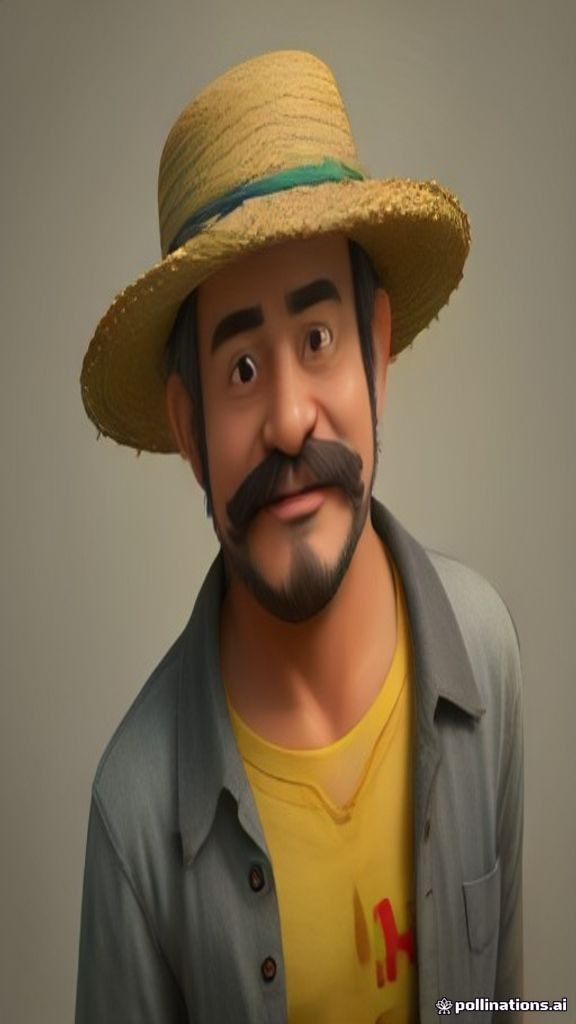
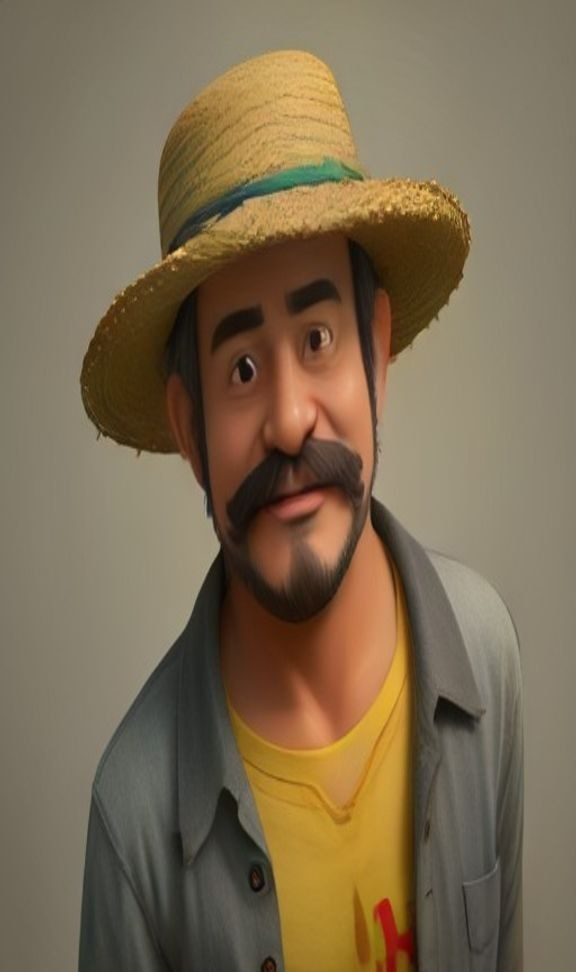
Remove marca d'agua da Pollinations e reformula o README com visuais
A imagem do personagem vinha com a marca "pollinations.ai" gravada no
rodape, e portanto aparecia em todo video publicado. O parametro
nologo=true da API so vale para contas pagas, entao a faixa passa a
ser cortada apos o download. Isso importa porque o TikTok desqualifica
da monetizacao conteudo com marca d'agua de outro app, que e
justamente o objetivo do projeto.

O corte preserva o formato original do arquivo: a Pollinations responde
JPEG (apesar da extensao .png), e re-salvar como PNG multiplicava por
sete o tamanho de um arquivo que fica commitado no repo.

README: adiciona frame real de um video gerado, diagrama do pipeline em
SVG legivel nos temas claro e escuro do GitHub, mini logos nas tabelas e
requisitos de monetizacao em formato de checklist.

diff --git a/src/images.py b/src/images.py
@@ -5,9 +5,14 @@ import time
 import urllib.parse
 
 import requests
-from PIL import ImageFont
+from PIL import Image, ImageFont
 
 POLLINATIONS_URL = "https://image.pollinations.ai/prompt/{prompt}"
+
+# A Pollinations grava a marca dela no rodape das imagens: o parametro
+# nologo=true so vale para contas pagas. Cortamos a faixa porque o TikTok
+# desqualifica da monetizacao conteudo com marca d'agua de outro app.
+WATERMARK_STRIP_RATIO = 0.05
 
 
 def generate_scene_image(prompt: str, width: int, height: int, out_path: str,
@@ -34,6 +39,7 @@ def generate_scene_image(prompt: str, width: int, height: int, out_path: str,
             resp.raise_for_status()
             with open(out_path, "wb") as f:
                 f.write(resp.content)
+            strip_watermark(out_path)
             return out_path
         except requests.RequestException as exc:
             last_exc = exc
@@ -43,6 +49,20 @@ def generate_scene_image(prompt: str, width: int, height: int, out_path: str,
             time.sleep(wait)
 
     raise RuntimeError(f"Nao foi possivel gerar a imagem apos {retries} tentativas: {last_exc}")
+
+
+def strip_watermark(path: str, ratio: float = WATERMARK_STRIP_RATIO) -> str:
+    """Corta a faixa inferior da imagem, onde fica a marca d'agua da Pollinations."""
+    with Image.open(path) as img:
+        # a Pollinations responde JPEG: re-salvar como PNG multiplicaria o
+        # tamanho de um arquivo que fica commitado no repo
+        image_format = img.format
+        width, height = img.size
+        cropped = img.crop((0, 0, width, int(height * (1 - ratio))))
+
+    options = {"quality": 95} if image_format == "JPEG" else {}
+    cropped.save(path, format=image_format, **options)
+    return path
 
 
 def load_font(size: int) -> ImageFont.FreeTypeFont:

diff --git a/README.md b/README.md
@@ -1,70 +1,108 @@
 <div align="center">
 
-<img src="assets/character.png" alt="Seu Waldemar, personagem fixo do canal" width="180">
-
 # tiktok-ai-bot
 
-Geracao e publicacao diaria de esquetes de humor com IA, estreladas por um personagem 3D fixo e original, para TikTok e YouTube Shorts.
+**Uma esquete de humor por dia, gerada por IA e publicada sozinha no TikTok e no YouTube Shorts.**
 
-[![Python](https://img.shields.io/badge/Python-3.11%2B-3776AB?logo=python&logoColor=white)](https://www.python.org/)
-[![TikTok Content Posting API](https://img.shields.io/badge/TikTok-Content%20Posting%20API-000000?logo=tiktok&logoColor=white)](https://developers.tiktok.com/)
-[![YouTube Data API v3](https://img.shields.io/badge/YouTube-Data%20API%20v3-FF0000?logo=youtube&logoColor=white)](https://developers.google.com/youtube/v3)
-[![Groq](https://img.shields.io/badge/LLM-Groq-F55036?logo=groq&logoColor=white)](https://groq.com/)
-[![GitHub Actions](https://img.shields.io/badge/Automacao-GitHub%20Actions-2088FF?logo=githubactions&logoColor=white)](https://github.com/features/actions)
+Personagem 3D fixo e original, roteiro novo a cada dia, narracao com legendas animadas
+e publicacao pelas APIs oficiais das duas plataformas, rodando de graca no GitHub Actions.
+
+[![Python](https://img.shields.io/badge/Python-3.11+-3776AB?style=for-the-badge&logo=python&logoColor=white)](https://www.python.org/)
+[![TikTok](https://img.shields.io/badge/TikTok-Content_Posting_API-000000?style=for-the-badge&logo=tiktok&logoColor=white)](https://developers.tiktok.com/)
+[![YouTube](https://img.shields.io/badge/YouTube-Data_API_v3-FF0000?style=for-the-badge&logo=youtube&logoColor=white)](https://developers.google.com/youtube/v3)
+[![GitHub Actions](https://img.shields.io/badge/GitHub_Actions-cron_diario-2088FF?style=for-the-badge&logo=githubactions&logoColor=white)](https://github.com/features/actions)
+[![FFmpeg](https://img.shields.io/badge/FFmpeg-MoviePy-007808?style=for-the-badge&logo=ffmpeg&logoColor=white)](https://ffmpeg.org/)
 
 </div>
 
 ---
 
-## Indice
+## Resultado
 
-- [Visao geral](#visao-geral)
-- [Como funciona](#como-funciona)
-- [Sobre monetizacao](#sobre-monetizacao-tiktok-creator-rewards-program)
-- [Limitacao importante do TikTok](#limitacao-importante-do-tiktok)
-- [Setup passo a passo](#setup-passo-a-passo)
-- [Customizacao](#customizacao)
-- [Rodando localmente](#rodando-localmente)
+<table>
+<tr>
+<td width="46%" align="center">
 
-## Visao geral
+<img src="docs/img/preview.jpg" alt="Frame de um video gerado pelo bot: o personagem Seu Waldemar com legenda animada" width="260">
 
-Este bot gera uma esquete de humor por dia e publica automaticamente no **TikTok** e no **YouTube Shorts**, usando as **APIs oficiais** de cada plataforma via GitHub Actions (cron diario).
+</td>
+<td width="54%">
 
-Ele nao usa scraping nem automacao de navegador: esse tipo de tecnica viola os Termos de Servico das plataformas e coloca a conta em risco de banimento.
+**O que sai no final:**
+
++ Video vertical 1080x1920, pronto para Shorts e TikTok
++ Mesmo personagem em todos os videos, para o canal ter identidade
++ Legendas animadas palavra a palavra, no estilo CapCut
++ Risada de grupo fechando a piada
++ Narracao de 170 a 220 palavras, para passar de 1 minuto
++ Publicacao automatica nas duas plataformas
+
+</td>
+</tr>
+</table>
 
 ## Como funciona
 
-| Etapa | Ferramenta | Funcao |
-|---|---|---|
-| 1 | [Pollinations.ai](https://pollinations.ai/) (gratuito, uma unica vez) | Gera e cacheia a imagem do personagem fixo |
-| 2 | [Groq](https://groq.com/) (`openai/gpt-oss-120b`) | Escreve o roteiro: monologo do personagem, legenda e hashtags |
-| 3 | [edge-tts](https://github.com/rany2/edge-tts) (gratuito) | Narra o roteiro e retorna o timing de cada palavra |
-| 4 | MoviePy / ffmpeg | Monta o video: personagem com zoom leve, legendas animadas palavra a palavra e risada final |
-| 5 | TikTok Content Posting API | Publica no TikTok |
-| 6 | YouTube Data API v3 | Publica no YouTube Shorts |
+<div align="center">
+  <img src="docs/img/pipeline.svg" alt="Fluxo do pipeline: Pollinations gera o personagem, Groq escreve o roteiro, edge-tts narra, MoviePy monta o video e a publicacao vai para TikTok e YouTube Shorts" width="100%">
+</div>
 
-A mesma imagem do personagem (gerada uma unica vez e commitada em `assets/character.png`) e reaproveitada em todo video, para manter sempre a mesma aparencia. O video final e enviado para as duas plataformas de forma independente: os liga/desliga sao `tiktok.enabled` e `youtube.enabled` em `config.yaml`. Se uma plataforma falhar ou nao estiver configurada, a outra continua normalmente.
+| # | Ferramenta | O que faz |
+|:--:|---|---|
+| 1 | ![Pollinations](https://img.shields.io/badge/Pollinations.ai-7c5cff?style=flat-square) | Gera a imagem do personagem. Roda uma unica vez e o arquivo fica commitado |
+| 2 | ![Groq](https://img.shields.io/badge/Groq-F55036?style=flat-square) | Escreve o roteiro do dia: monologo, legenda e hashtags |
+| 3 | ![edge-tts](https://img.shields.io/badge/edge--tts-0F9D58?style=flat-square) | Narra o texto e devolve o timing de cada palavra |
+| 4 | ![MoviePy](https://img.shields.io/badge/MoviePy-2B7FFF?style=flat-square&logo=ffmpeg&logoColor=white) | Monta o video: zoom no personagem, legendas sincronizadas e risada final |
+| 5 | ![TikTok](https://img.shields.io/badge/TikTok-000000?style=flat-square&logo=tiktok&logoColor=white) | Publica no TikTok |
+| 6 | ![YouTube](https://img.shields.io/badge/YouTube-FF0000?style=flat-square&logo=youtube&logoColor=white) | Publica no YouTube Shorts |
+
+A mesma imagem do personagem (gerada uma unica vez e commitada em `assets/character.png`)
+e reaproveitada em todo video, para manter sempre a mesma aparencia. As duas plataformas
+sao independentes: os liga/desliga sao `tiktok.enabled` e `youtube.enabled` em
+`config.yaml`, e se uma falhar ou nao estiver configurada, a outra continua normalmente.
+
+Nada de scraping ou automacao de navegador: esse tipo de tecnica viola os Termos de
+Servico das plataformas e coloca a conta em risco de banimento.
 
 ### Por que sem lip-sync (boca sincronizada)?
 
-Assim o projeto se mantem 100% gratuito. Um avatar com a boca sincronizada com a voz exige servicos pagos (HeyGen, D-ID, Synthesia). Ha tambem um motivo de regras: a politica do **TikTok Creator Rewards Program** exclui explicitamente "conteudo com sincronizacao labial" da definicao de conteudo original elegivel para monetizacao. O formato atual (narracao mais legenda, sem lip-sync) e o que melhor se encaixa nas regras vigentes.
+Assim o projeto se mantem gratuito. Um avatar com a boca sincronizada com a voz exige
+servicos pagos (HeyGen, D-ID, Synthesia). Ha tambem um motivo de regras: a politica do
+**TikTok Creator Rewards Program** exclui explicitamente "conteudo com sincronizacao
+labial" da definicao de conteudo original elegivel para monetizacao. O formato atual
+(narracao mais legenda, sem lip-sync) e o que melhor se encaixa nas regras vigentes.
 
-## Sobre monetizacao (TikTok Creator Rewards Program)
+## Sobre monetizacao
 
 Vale saber antes de esperar renda do bot:
 
-- E preciso ter conta pessoal, 18 anos ou mais, **10.000 seguidores** e **100.000 visualizacoes nos ultimos 30 dias** apenas para se inscrever no programa.
-- O video precisa ter **pelo menos 1 minuto**: por isso o roteiro foi ajustado para narracoes de 170 a 220 palavras.
-- Conteudo de IA nao e proibido, mas precisa contar como "original": nada de copiar conteudo de terceiros, usar watermark de outro app ou apenas sobrepor texto em foto/video alheio. O TikTok tambem pede para rotular conteudo gerado por IA (em Configuracoes do video, opcao "Rotular como IA" no app; a Content Posting API ainda nao expoe esse campo).
-- O YouTube tem um programa equivalente (YouTube Partner Program), com seus proprios requisitos de inscritos e horas assistidas, nao detalhados aqui.
+| Requisito do TikTok Creator Rewards | Situacao |
+|---|---|
+| Conta pessoal, 18 anos ou mais | Depende de voce |
+| 10.000 seguidores | Depende de voce |
+| 100.000 visualizacoes em 30 dias | Depende de voce |
+| Video com pelo menos 1 minuto | Coberto: o roteiro pede 170 a 220 palavras e o bot regenera se vier curto |
+| Conteudo original, sem lip-sync e sem marca d'agua de terceiros | Coberto: personagem proprio, sem lip-sync e a marca da Pollinations e removida |
+| Rotular conteudo gerado por IA | Manual por enquanto: a Content Posting API ainda nao expoe esse campo |
+
+O YouTube tem um programa equivalente (YouTube Partner Program), com seus proprios
+requisitos de inscritos e horas assistidas, nao detalhados aqui.
 
 ## Limitacao importante do TikTok
 
-Apps **nao auditados** pela TikTok so podem publicar com `privacy_level = SELF_ONLY`: o video fica visivel apenas para a propria conta, como um rascunho, e nao aparece publicamente no feed. Para publicar direto ao publico (`PUBLIC_TO_EVERYONE`), e necessario solicitar auditoria do app no TikTok for Developers depois que ele estiver funcionando (Manage Apps > seu app > Submit for Review). Essa e uma exigencia da TikTok, nao uma limitacao deste bot.
+Apps **nao auditados** pela TikTok so podem publicar com `privacy_level = SELF_ONLY`:
+o video fica visivel apenas para a propria conta, como um rascunho, e nao aparece
+publicamente no feed. Para publicar direto ao publico (`PUBLIC_TO_EVERYONE`), e
+necessario solicitar auditoria do app no TikTok for Developers depois que ele estiver
+funcionando (Manage Apps > seu app > Submit for Review). Essa e uma exigencia da
+TikTok, nao uma limitacao deste bot.
 
-O YouTube Shorts nao tem essa restricao: com o app OAuth do Google em publishing status **"In production"**, os videos ja saem publicos direto (configuravel em `youtube.privacy_status`).
+O YouTube Shorts nao tem essa restricao: com o app OAuth do Google em publishing status
+**"In production"**, os videos ja saem publicos direto (configuravel em
+`youtube.privacy_status`).
 
-O Kwai nao foi incluido porque a Kuaishou/Kwai nao oferece API publica de postagem para desenvolvedores individuais fora de parcerias comerciais/MCN.
+O Kwai nao foi incluido porque a Kuaishou/Kwai nao oferece API publica de postagem para
+desenvolvedores individuais fora de parcerias comerciais/MCN.
 
 ## Setup passo a passo
 
@@ -74,7 +112,8 @@ Suba esta pasta para um repositorio novo (pode ser privado).
 
 ### 2. Ative o GitHub Pages (necessario para o OAuth do TikTok)
 
-O TikTok exige `redirect_uri` em HTTPS (nao aceita `localhost`). Este repo ja inclui `docs/oauth-callback.html` pronto para isso.
+O TikTok exige `redirect_uri` em HTTPS (nao aceita `localhost`). Este repo ja inclui
+`docs/oauth-callback.html` pronto para isso.
 
 - Settings > Pages > Source: `Deploy from a branch` > Branch: `main` / `docs`
 - Sua URL de callback sera algo como: `https://SEU-USUARIO.github.io/SEU-REPO/oauth-callback.html`
@@ -94,7 +133,9 @@ git commit -m "Gera personagem do canal"
 git push
 ```
 
-Isso fixa a aparencia do personagem definitivamente (o gerador de imagens gratuito nao repete o mesmo rosto sozinho a cada chamada). Para trocar o visual, edite `character.description` em `config.yaml` e rode novamente com `--force`.
+Isso fixa a aparencia do personagem definitivamente, porque o gerador de imagens
+gratuito nao repete o mesmo rosto sozinho a cada chamada. Para trocar o visual, edite
+`character.description` em `config.yaml` e rode novamente com `--force`.
 
 ### 5. Crie o app no TikTok for Developers
 
@@ -109,11 +150,17 @@ Isso fixa a aparencia do personagem definitivamente (o gerador de imagens gratui
 python -m src.oauth_setup
 ```
 
-O script pede `TIKTOK_CLIENT_KEY`, `TIKTOK_CLIENT_SECRET` e o `redirect_uri` do passo 2, abre a URL de autorizacao (voce faz login com a conta do TikTok que vai postar) e pede que voce cole o `code` que aparece na pagina de callback. No final ele imprime o `TIKTOK_REFRESH_TOKEN`.
+O script pede `TIKTOK_CLIENT_KEY`, `TIKTOK_CLIENT_SECRET` e o `redirect_uri` do passo 2,
+abre a URL de autorizacao (voce faz login com a conta do TikTok que vai postar) e pede
+que voce cole o `code` que aparece na pagina de callback. No final ele imprime o
+`TIKTOK_REFRESH_TOKEN`.
 
 ### 7. Crie um GitHub Personal Access Token
 
-Esse token permite que o bot atualize sozinho o token do TikTok. O `refresh_token` do TikTok pode mudar a cada renovacao; para o bot continuar funcionando sem intervencao manual toda semana, ele atualiza o secret sozinho via API do GitHub (o refresh_token do YouTube nao precisa disso, pois o Google nao o rotaciona a cada uso).
+Esse token permite que o bot atualize sozinho o token do TikTok. O `refresh_token` do
+TikTok muda a cada renovacao e o valor antigo e invalidado na hora, entao o bot precisa
+salvar o novo valor via API do GitHub para continuar funcionando sem intervencao manual.
+O refresh_token do YouTube nao precisa disso, porque o Google nao o rotaciona a cada uso.
 
 - GitHub > Settings > Developer settings > Personal access tokens (classic)
 - Escopo: `repo`
@@ -126,9 +173,14 @@ Esse token permite que o bot atualize sozinho o token do TikTok. O `refresh_toke
 - Em APIs e servicos > Tela de consentimento OAuth:
   - Tipo de usuario: **External**
   - Escopo adicionado: `https://www.googleapis.com/auth/youtube.upload`
-  - Publique o app (botao "Publish app", mudando de "Testing" para "In production"). Isso e essencial: em "Testing" o refresh_token expira em 7 dias e o bot para de funcionar sozinho.
-  - Como o escopo `youtube.upload` e sensivel, o Google pode mostrar um aviso de "app nao verificado" para quem faz login. Isso e normal para uso pessoal: basta clicar em Avancado > Acessar mesmo assim (voce mesmo e quem loga).
-- Em APIs e servicos > Credenciais > Criar credenciais > ID do cliente OAuth, escolha o tipo **"App para computador" (Desktop app)**
+  - Publique o app (botao "Publish app", mudando de "Testing" para "In production").
+    Isso e essencial: em "Testing" o refresh_token expira em 7 dias e o bot para de
+    funcionar sozinho.
+  - Como o escopo `youtube.upload` e sensivel, o Google pode mostrar um aviso de "app
+    nao verificado" para quem faz login. Isso e normal para uso pessoal: basta clicar
+    em Avancado > Acessar mesmo assim (voce mesmo e quem loga).
+- Em APIs e servicos > Credenciais > Criar credenciais > ID do cliente OAuth, escolha o
+  tipo **"App para computador" (Desktop app)**
 - Anote o `Client ID` e o `Client secret`
 
 ### 9. Gere o refresh token do YouTube (roda uma unica vez, na sua maquina)
@@ -137,49 +189,55 @@ Esse token permite que o bot atualize sozinho o token do TikTok. O `refresh_toke
 python -m src.youtube_oauth_setup
 ```
 
-O script abre o navegador para voce fazer login com a conta do YouTube que vai receber os Shorts, e no final imprime o `YOUTUBE_REFRESH_TOKEN`.
+O script abre o navegador para voce fazer login com a conta do YouTube que vai receber
+os Shorts, e no final imprime o `YOUTUBE_REFRESH_TOKEN`.
 
 ### 10. Cadastre os Secrets no repositorio
 
 Em Settings > Secrets and variables > Actions > New repository secret:
 
-| Nome | Valor |
+| Secret | Origem |
 |---|---|
-| `GROQ_API_KEY` | do passo 3 |
-| `TIKTOK_CLIENT_KEY` | do passo 5 |
-| `TIKTOK_CLIENT_SECRET` | do passo 5 |
-| `TIKTOK_REFRESH_TOKEN` | do passo 6 |
-| `GH_PAT` | do passo 7 |
-| `YOUTUBE_CLIENT_ID` | do passo 8 |
-| `YOUTUBE_CLIENT_SECRET` | do passo 8 |
-| `YOUTUBE_REFRESH_TOKEN` | do passo 9 |
+| `GROQ_API_KEY` | passo 3 |
+| `TIKTOK_CLIENT_KEY` | passo 5 |
+| `TIKTOK_CLIENT_SECRET` | passo 5 |
+| `TIKTOK_REFRESH_TOKEN` | passo 6 |
+| `GH_PAT` | passo 7 |
+| `YOUTUBE_CLIENT_ID` | passo 8 |
+| `YOUTUBE_CLIENT_SECRET` | passo 8 |
+| `YOUTUBE_REFRESH_TOKEN` | passo 9 |
 
-Para usar apenas uma das duas plataformas, deixe os secrets da outra vazios e desative-a em `config.yaml` (`tiktok.enabled: false` ou `youtube.enabled: false`).
+Para usar apenas uma das duas plataformas, deixe os secrets da outra vazios e
+desative-a em `config.yaml` (`tiktok.enabled: false` ou `youtube.enabled: false`).
 
 ### 11. Teste manualmente antes de deixar no automatico
 
-Em Actions > Daily AI video post > Run workflow, rode primeiro com `dry_run: true` (gera o video mas nao publica em nenhuma plataforma) e confira o artifact `video-*` gerado. Depois rode com `dry_run: false` para publicar de verdade (o TikTok recebe o video como privado/SELF_ONLY; o YouTube sai publico).
+Em Actions > Daily AI video post > Run workflow, rode primeiro com `dry_run: true`
+(gera o video mas nao publica em nenhuma plataforma) e confira o artifact `video-*`
+gerado. Depois rode com `dry_run: false` para publicar de verdade: o TikTok recebe o
+video como privado/SELF_ONLY e o YouTube sai publico.
 
 O cron ja esta configurado para rodar todo dia as 10h no horario de Brasilia.
 
 ## Customizacao
 
+Tudo abaixo fica em `config.yaml`, com excecao da ultima linha.
+
 | Opcao | Efeito |
 |---|---|
 | `character.name` / `character.description` | Definem o personagem. Rode `python -m src.generate_character --force` depois de mudar a descricao |
 | `niche` | Define o tipo de causo/piada |
-| `tts_voice` | Escolhe a voz do TTS (rode `edge-tts --list-voices` para ver as opcoes) |
-| `hashtags_extra` | Hashtags fixas adicionadas em todo video |
-| `tiktok.enabled` / `youtube.enabled` | Liga/desliga cada plataforma |
+| `tts_voice` | Escolhe a voz da narracao. Rode `edge-tts --list-voices` para ver as opcoes |
 | `script.model` | Modelo da Groq usado no roteiro. Confira a [pagina de modelos](https://console.groq.com/docs/models) antes de trocar, porque modelos sao descontinuados periodicamente |
 | `script.min_narration_words` | Minimo de palavras da narracao. Abaixo disso o roteiro e gerado de novo, para o video passar de 1 minuto |
-| `captions.words_per_chunk` | Controla quantas palavras aparecem por vez na legenda animada |
+| `captions.words_per_chunk` | Quantas palavras aparecem por vez na legenda animada |
 | `captions.bottom_margin` | Distancia da legenda ate a base do video, em px. O padrao (420) mantem o texto acima da interface do TikTok |
 | `video.zoom_effect` | Liga/desliga o efeito de zoom (Ken Burns) |
-| `sfx.laugh_enabled` / `sfx.laugh_gap_seconds` | Adiciona uma risada de grupo apos o fim da narracao, escolhida aleatoriamente entre os arquivos em `assets/laughs/` (licenca livre do Mixkit). Adicione seus proprios mp3 nessa pasta para variar o efeito |
+| `sfx.laugh_enabled` / `sfx.laugh_gap_seconds` | Risada de grupo apos a narracao, sorteada entre os arquivos de `assets/laughs/` (licenca livre do Mixkit). Adicione seus proprios mp3 nessa pasta para variar |
+| `hashtags_extra` | Hashtags fixas adicionadas em todo video |
+| `tiktok.enabled` / `youtube.enabled` | Liga/desliga cada plataforma |
+| `tiktok.privacy_level` | Mude para `PUBLIC_TO_EVERYONE` depois que o app for auditado pela TikTok |
 | `src/script_gen.py` | Ajusta o prompt do roteiro: tom, formato, idioma |
-
-Depois que o app for auditado pela TikTok, altere `tiktok.privacy_level` em `config.yaml` para `PUBLIC_TO_EVERYONE`.
 
 ## Rodando localmente
 
@@ -188,4 +246,11 @@ cp .env.example .env   # preencha os valores
 pip install -r requirements.txt
 export $(cat .env | xargs)   # ou use python-dotenv / direnv
 DRY_RUN=true python main.py
+```
+
+Para testar so a parte de video (personagem, narracao, legendas e risada), sem gastar
+chamada de LLM nem publicar nada:
+
+```bash
+python test_pipeline.py
 ```
